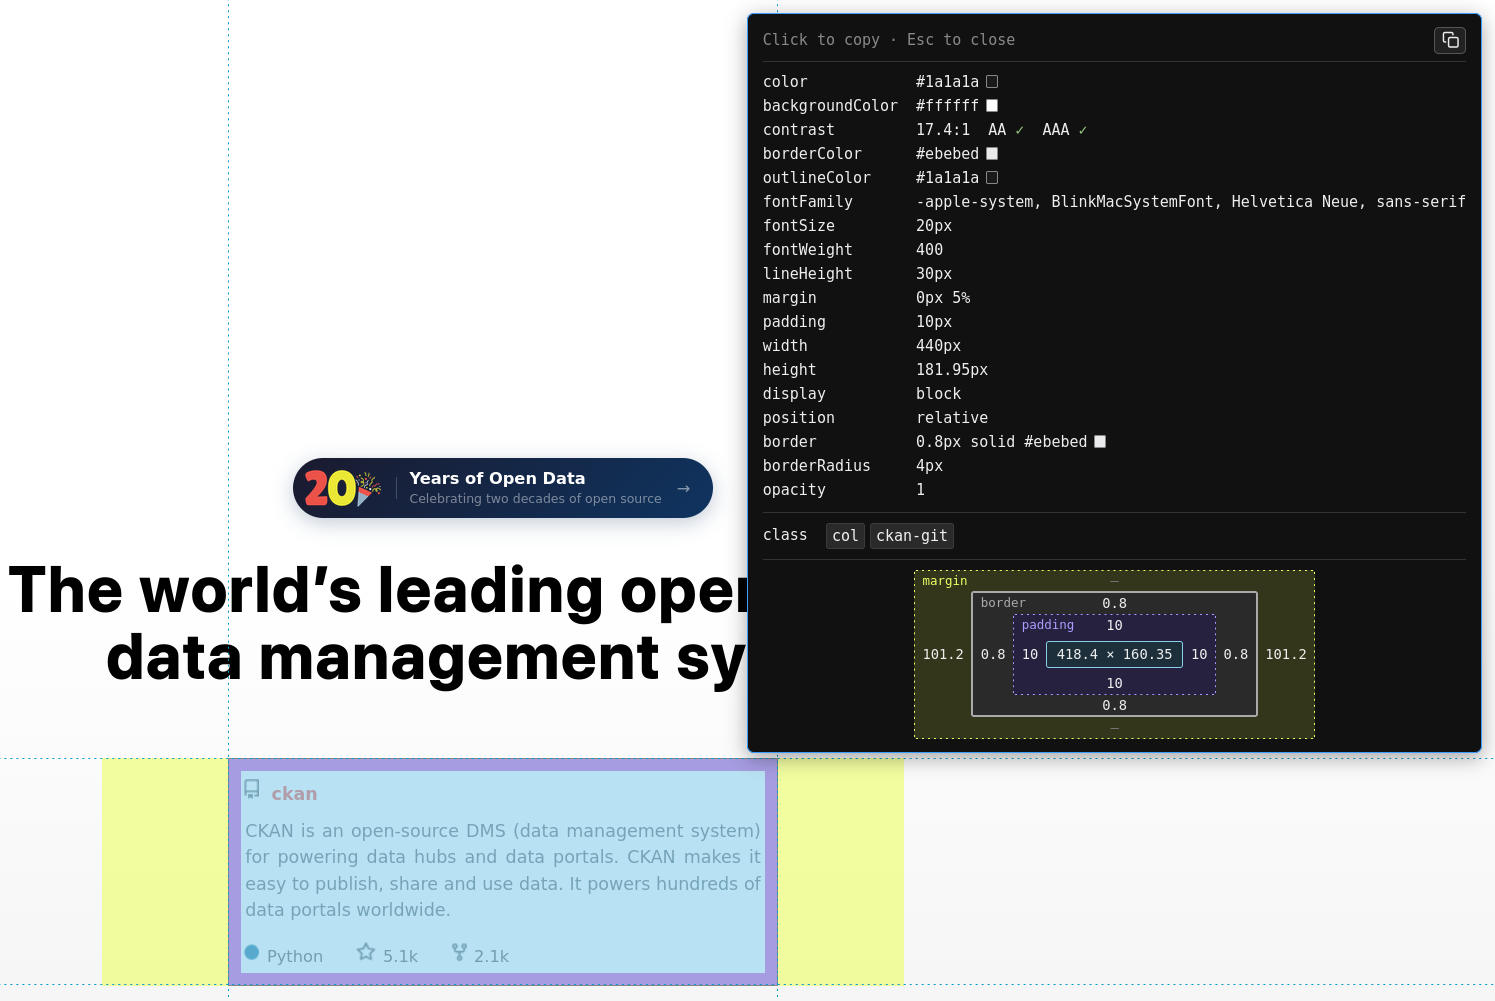
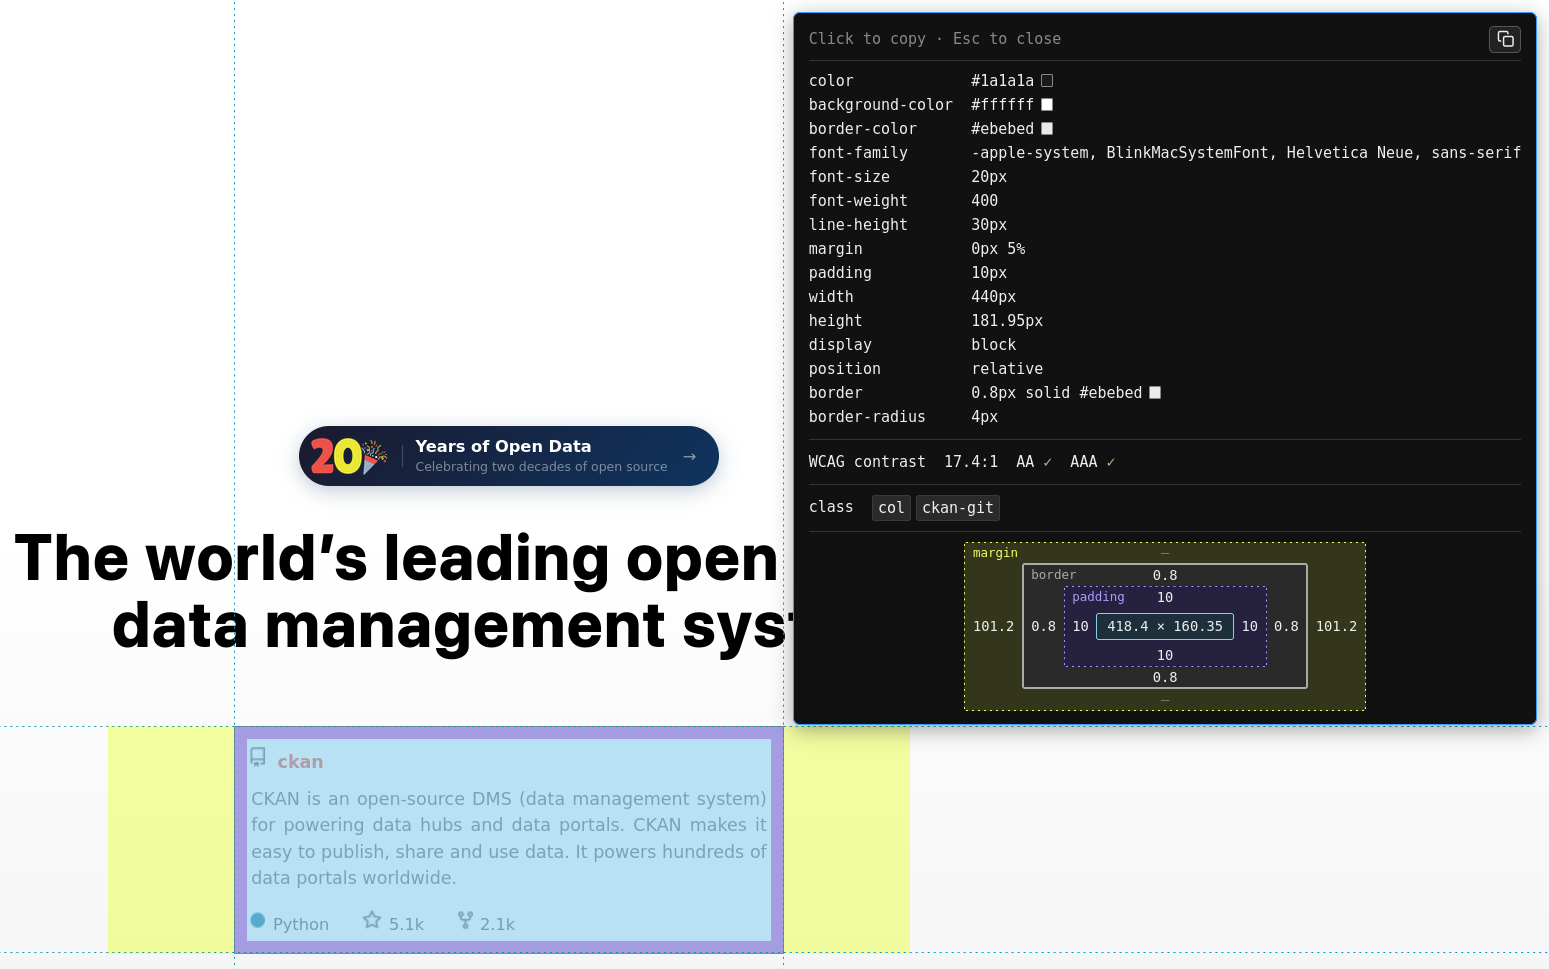
feat: add default-value toggle, gap row and separate contrast section

Changed region(s): [[0.0, 0.0, 1.0, 0.9907], [0.0615, 0.9598, 0.0923, 0.9907]]

diff --git a/inspector.js b/inspector.js
@@ -18,6 +18,7 @@
         "width",
         "height",
         "display",
+        "gap",
         "position",
         "border",
         "borderRadius",
@@ -31,11 +32,38 @@
         "borderLeftColor"
     ];
 
-    // Rows computed by Scope rather than read from CSS, so they're left out
-    // of "copy all" and aren't copied as declarations.
-    const derivedRows = new Set(["contrast"]);
+    // Rows hidden when they hold the default in both states, unless the
+    // "Show default values" setting is on. The box model diagram still
+    // shows every side of margin, border and padding.
+    function isZero(value) {
+        const numbers = value.match(/-?\d*\.?\d+/g);
+
+        return !!numbers && numbers.every(n => parseFloat(n) === 0);
+    }
+
+    const defaultChecks = {
+        margin: isZero,
+        padding: isZero,
+        borderRadius: isZero,
+        // The border shorthand ends with a color, so only its width counts.
+        border: value => /^0px\b/.test(value),
+        position: value => value === "static",
+        opacity: value => parseFloat(value) === 1,
+        gap: value => value === "normal"
+    };
+
+    function isDefault(property, value) {
+        return !!defaultChecks[property]?.(value);
+    }
+
+    // Gap only affects flex and grid containers, so elsewhere its row is
+    // noise.
+    function isGapContainer(display) {
+        return /\b(flex|grid)\b/.test(display);
+    }
 
     let enabled = true;
+    let showDefaultValues = true;
     let hoveredElement = null;
     let inspectedElement = null;
     let shiftPressed = false;
@@ -184,7 +212,6 @@
 
     copyAllButton.addEventListener("click", () => {
         const css = currentRows
-            .filter(([property]) => !derivedRows.has(property))
             .map(([property, normalValue]) => declaration(property, normalValue))
             .join("\n");
 
@@ -656,6 +683,12 @@
 
         result.contrast = contrastSummary(el, computed);
 
+        // outline-color computes to a color (currentcolor by default) even
+        // when no outline is drawn, so its row is only shown when one is.
+        result.hasOutline =
+            computed.outlineStyle !== "none" &&
+            parseFloat(computed.outlineWidth) > 0;
+
         return result;
     }
 
@@ -936,6 +969,19 @@
     // Attributes
     // -------------------------------------------------------------------------
 
+    // A tooltip section below the CSS rows, set off by a divider line.
+    function tooltipSection() {
+        const section = document.createElement("div");
+
+        Object.assign(section.style, {
+            marginTop: "8px",
+            paddingTop: "8px",
+            borderTop: "1px solid #333"
+        });
+
+        return section;
+    }
+
     // Shown like Markdown inline code, so each name stands out from its
     // neighbours. Clicking one copies just that name.
     function codeChip(value) {
@@ -967,13 +1013,7 @@
             return null;
         }
 
-        const section = document.createElement("div");
-
-        Object.assign(section.style, {
-            marginTop: "8px",
-            paddingTop: "8px",
-            borderTop: "1px solid #333"
-        });
+        const section = tooltipSection();
 
         const nameWidth = Math.max(...attributes.map(([name]) => name.length));
 
@@ -1012,6 +1052,28 @@
     // Inspection
     // -------------------------------------------------------------------------
 
+    // A label and its value, followed by the hovered value when it differs.
+    function renderRow(label, copyValue, normalValue, hoverValue, render) {
+        const line = document.createElement("div");
+        const name = document.createElement("span");
+
+        name.textContent = label;
+        makeCopyable(name, copyValue);
+
+        line.append(name, "  ", render(normalValue));
+
+        if (normalValue !== hoverValue) {
+            const arrow = document.createElement("span");
+
+            arrow.style.color = "#888";
+            arrow.textContent = "→";
+
+            line.append("  ", arrow, "  ", render(hoverValue));
+        }
+
+        return line;
+    }
+
     function inspectElement(el) {
         const normal = getNormalStyles(el);
         const hover = getStyles(el);
@@ -1028,7 +1090,31 @@
 
         const rows = [];
 
+        const showGap =
+            isGapContainer(normal.display) ||
+            isGapContainer(hover.display);
+
         properties.forEach(property => {
+            if (property === "gap" && !showGap) {
+                return;
+            }
+
+            if (
+                property === "outlineColor" &&
+                !normal.hasOutline &&
+                !hover.hasOutline
+            ) {
+                return;
+            }
+
+            if (
+                !showDefaultValues &&
+                isDefault(property, normal[property]) &&
+                isDefault(property, hover[property])
+            ) {
+                return;
+            }
+
             if (
                 collapseBorders &&
                 borderColorProperties.includes(property)
@@ -1051,59 +1137,41 @@
                 normal[property],
                 hover[property]
             ]);
-
-            if (property === "backgroundColor") {
-                rows.push(["contrast", normal.contrast, hover.contrast]);
-            }
         });
 
+        // Shown as CSS names, matching what a click copies.
         const propertyWidth = Math.max(
-            ...rows.map(row => row[0].length)
+            ...rows.map(row => toCssName(row[0]).length)
         );
 
-        const lines = rows.map(
-            ([property, normalValue, hoverValue]) => {
-                const line = document.createElement("div");
-                const name = document.createElement("span");
+        const lines = rows.map(([property, normalValue, hoverValue]) => {
+            const cssName = toCssName(property);
 
-                name.textContent = property;
-
-                const render = derivedRows.has(property)
-                    ? renderMarks
-                    : renderValue;
-
-                makeCopyable(
-                    name,
-                    derivedRows.has(property)
-                        ? `${property}: ${normalValue}`
-                        : declaration(property, normalValue)
-                );
-
-                line.append(
-                    name,
-                    " ".repeat(propertyWidth - property.length + 2),
-                    render(normalValue)
-                );
-
-                if (normalValue !== hoverValue) {
-                    const arrow = document.createElement("span");
-
-                    arrow.style.color = "#888";
-                    arrow.textContent = "→";
-
-                    line.append(
-                        "  ",
-                        arrow,
-                        "  ",
-                        render(hoverValue)
-                    );
-                }
-
-                return line;
-            }
-        );
+            return renderRow(
+                cssName.padEnd(propertyWidth),
+                declaration(property, normalValue),
+                normalValue,
+                hoverValue,
+                renderValue
+            );
+        });
 
         currentRows = rows;
+
+        // Computed by Scope rather than read from CSS, so it gets its own
+        // section and is left out of "copy all".
+        const contrast = tooltipSection();
+        const contrastLabel = "WCAG contrast";
+
+        contrast.append(
+            renderRow(
+                contrastLabel,
+                `${contrastLabel}: ${normal.contrast}`,
+                normal.contrast,
+                hover.contrast,
+                renderMarks
+            )
+        );
 
         const attributes = renderAttributes(el);
 
@@ -1111,6 +1179,7 @@
             pinBar,
             pinTip,
             ...lines,
+            contrast,
             ...(attributes ? [attributes] : []),
             renderBoxModel(el)
         );
@@ -1407,13 +1476,34 @@
         }
     }
 
+    // Re-renders an open tooltip, which is usually pinned while the popup
+    // is used to change the setting.
+    function applyShowDefaultValues(value = true) {
+        showDefaultValues = value;
+
+        if (inspectedElement) {
+            inspectElement(inspectedElement);
+        }
+    }
+
     browser.storage.local
-        .get("disabledSites")
-        .then(({ disabledSites }) => applyDisabledSites(disabledSites));
+        .get(["disabledSites", "showDefaultValues"])
+        .then(({ disabledSites, showDefaultValues }) => {
+            applyDisabledSites(disabledSites);
+            applyShowDefaultValues(showDefaultValues);
+        });
 
     browser.storage.onChanged.addListener((changes, area) => {
-        if (area === "local" && changes.disabledSites) {
+        if (area !== "local") {
+            return;
+        }
+
+        if (changes.disabledSites) {
             applyDisabledSites(changes.disabledSites.newValue);
+        }
+
+        if (changes.showDefaultValues) {
+            applyShowDefaultValues(changes.showDefaultValues.newValue);
         }
     });
 

diff --git a/popup/popup.html b/popup/popup.html
@@ -34,6 +34,13 @@
             cursor: pointer;
         }
 
+        hr {
+            margin: 10px 0;
+            border: none;
+            border-top: 1px solid var(--muted);
+            opacity: 0.4;
+        }
+
         #site {
             margin-top: 4px;
             color: var(--muted);
@@ -41,7 +48,7 @@
             word-break: break-all;
         }
 
-        .unavailable label {
+        .unavailable #site-setting {
             opacity: 0.5;
             cursor: default;
         }
@@ -49,6 +56,13 @@
 </head>
 <body>
     <label>
+        <input type="checkbox" id="show-defaults">
+        Show default values
+    </label>
+
+    <hr>
+
+    <label id="site-setting">
         <input type="checkbox" id="disabled" disabled>
         Disable on this site
     </label>

diff --git a/popup/popup.js b/popup/popup.js
@@ -3,6 +3,19 @@
 
     const checkbox = document.getElementById("disabled");
     const siteLabel = document.getElementById("site");
+    const showDefaultsCheckbox = document.getElementById("show-defaults");
+
+    // Global, so it's set up before the site check below can bail out.
+    const { showDefaultValues = true } =
+        await browser.storage.local.get("showDefaultValues");
+
+    showDefaultsCheckbox.checked = showDefaultValues;
+
+    showDefaultsCheckbox.addEventListener("change", () => {
+        browser.storage.local.set({
+            showDefaultValues: showDefaultsCheckbox.checked
+        });
+    });
 
     // activeTab exposes the tab's URL while the popup is open.
     const [tab] = await browser.tabs.query({
